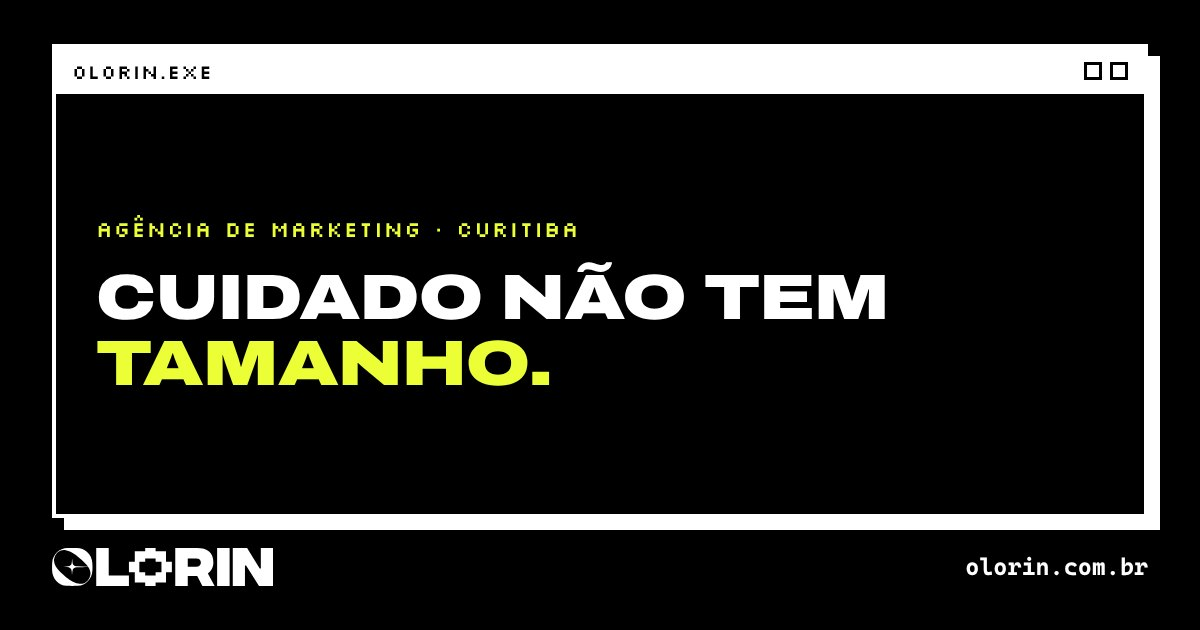
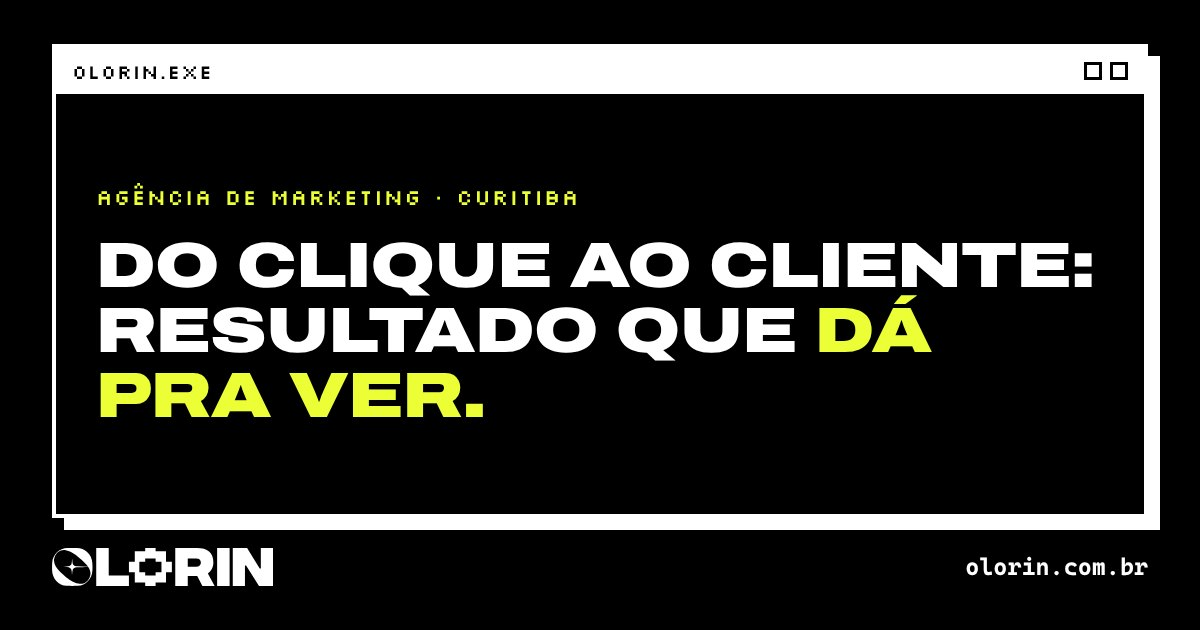
feat: blog no rodapé e feed no cabeçalho, textos do llms.txt no padrão de serviços, barra do celular sem encostar na borda em 320 px e prévias atualizadas
Claude-Session: https://claude.ai/code/session_016ZoWg6FizhwgxwysJCSG3E

Changed region(s): [[0.0617, 0.3016, 0.925, 0.6635]]

diff --git a/src/styles/componentes/flutuantes.css b/src/styles/componentes/flutuantes.css
@@ -100,6 +100,18 @@
 .o-barra.is-longe {
 	transform: translateY(110%);
 }
+/* 320 a 359 px: "Raio-X grátis" com a seta cabe na metade da barra sem encostar na borda */
+@media (max-width: 359px) {
+	.o-barra a {
+		gap: 6px;
+		padding-inline: 6px;
+		font-size: 12px;
+		letter-spacing: 0.01em;
+	}
+	.o-barra .o-icone {
+		--tam: 16px;
+	}
+}
 
 .o-cursor {
 	position: fixed;

diff --git a/README.md b/README.md
@@ -38,7 +38,9 @@ Para publicar: `docs/DEPLOY.md`. Para mudar textos, preços, fotos e a ordem dos
 |---|---|
 | [EDITAR](docs/EDITAR.md) | Como mudar qualquer coisa no site |
 | [DEPLOY](docs/DEPLOY.md) | Como publicar, testar e desfazer |
-| [CONTENT-TODO](docs/CONTENT-TODO.md) | O que ainda falta você confirmar |
+| [BLOG](docs/BLOG.md) | Como publicar artigos no blog |
+| [PENDENCIAS](docs/PENDENCIAS.md) | O que ainda falta mandar ou confirmar |
+| [CONTENT-TODO](docs/CONTENT-TODO.md) | Lista antiga de confirmações (histórico; a atual é a PENDENCIAS) |
 | [RELATORIO-FINAL](docs/RELATORIO-FINAL.md) | O que foi feito, números e próximos passos |
 | [PLAN](docs/PLAN.md) | Arquitetura e decisões técnicas |
 | [TRACKING](docs/TRACKING.md) | Google Tag Manager, GA4, Meta Pixel, Google Ads e consentimento |

diff --git a/src/blog/artigos/do-clique-a-matricula.md b/src/blog/artigos/do-clique-a-matricula.md
@@ -92,4 +92,4 @@ A leitura é direta. Poucos contatos apontam para o anúncio ou a página. Muito
 - Monte a planilha com as seis etapas e preencha com o que já tem.
 - Escolha uma etapa só para melhorar neste mês.
 
-Medir o caminho inteiro não exige um sistema caro. Exige constância: os mesmos números, do mesmo jeito, todo mês. É assim que a [Olorin Educação](/educacao/) acompanha a captação das instituições que atende, com o custo de cada matrícula no relatório do mês.
+Medir o caminho inteiro não exige um sistema caro. Exige constância: os mesmos números, do mesmo jeito, todo mês. É assim que a [Olorin Educação](/educacao/) trabalha a captação: com o custo de cada matrícula no relatório do mês.
